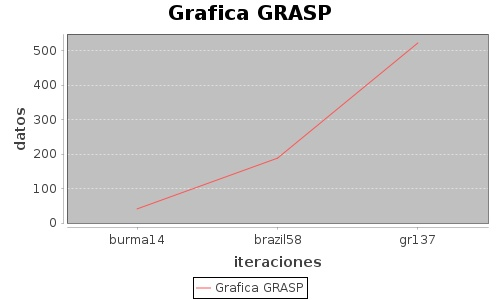
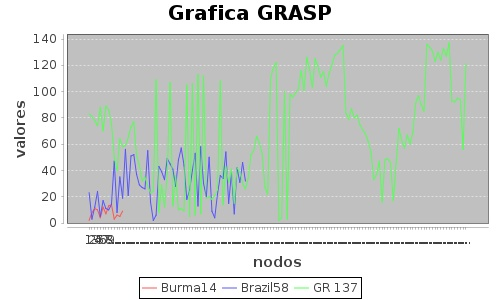
grafica de los recorridos

diff --git a/src/Main.java b/src/Main.java
@@ -9,6 +9,7 @@ import salida.ArchivoSalida;
 
 import java.io.File;
 import java.util.*;
+import java.util.List;
 
 import org.jfree.chart.ChartFactory;
 import org.jfree.chart.JFreeChart;
@@ -20,13 +21,13 @@ public class Main {
         //creo un grafo completo de 4 nodos de ejemplo, solo para probar la funcionalidad de los recorridos implementados
         GrafoMatriz otroGrafo = crearGrafoDeEjemplo();
         //1. Proponer un algoritmo goloso para el problema del viajante de comercio.
-        int [] camino = recorridoViajanteDeComercio(otroGrafo);
-        imprimirArreglo (camino);
+        int[] camino = recorridoViajanteDeComercio(otroGrafo);
+        imprimirArreglo(camino);
 
         //-------------------------------------------------------
         //2. Aleatorizar el algoritmo anterior.
         System.out.println("ahora aleatorio");
-       int []camino2 = recorridoViajanteDeComercioAleatorio(otroGrafo);
+        int[] camino2 = recorridoViajanteDeComercioAleatorio(otroGrafo);
         imprimirArreglo(camino2);
 
         //----------------------------------------------------------
@@ -45,7 +46,7 @@ public class Main {
         //"jugando" un poco con el xml para agarrarle la mano
         System.out.println("accediendo a los datos xml");
         XMLaccessing archivoDeEntrada = new XMLaccessing();
-        String [] resultado1 = archivoDeEntrada.adyacentesDe("1");
+        String[] resultado1 = archivoDeEntrada.adyacentesDe("1");
         String[] resultado2 = archivoDeEntrada.pesosDe("1");
         System.out.println("adyacentes del nodo '1'");
         imprimirArreglo(resultado1);
@@ -64,18 +65,19 @@ public class Main {
          */
         System.out.println("algoritmo GRASP");
         System.out.println("Archivo 'burma14'");
-        algoritmoGRASPconArchivoDeEntradaYDeSalida("burma14.xml","outputBurma.txt");
+        algoritmoGRASPconArchivoDeEntradaYDeSalida("burma14.xml", "outputBurma.txt");
         System.out.println("Archivo 'brazil158'");
-        algoritmoGRASPconArchivoDeEntradaYDeSalida("brazil58.xml","outputBrazil.txt");
+        algoritmoGRASPconArchivoDeEntradaYDeSalida("brazil58.xml", "outputBrazil.txt");
         System.out.println("Archivo 'gr137'");
-        algoritmoGRASPconArchivoDeEntradaYDeSalida("gr137.xml","outputGr137.txt");
+        algoritmoGRASPconArchivoDeEntradaYDeSalida("gr137.xml", "outputGr137.txt");
 
         //---------------------------------------------------------
         /*6. Presentar un grafico de scoring contra la cantidad de iteraciones para baterías de distintas instancias, que permita
         decidir una cantidad de iteraciones que ayude a encontrar un valor cercano al óptimo sin desperdiciar tiempo de
         cómputo.
         * */
-       // presentarElGrafico();
+       presentarElGrafico();
+
 
     }
 
@@ -87,14 +89,16 @@ public class Main {
         GrafoMatriz grafo2 = new GrafoMatriz(archivoDeEntrada2);
         GrafoMatriz grafo3 = new GrafoMatriz(archivoDeEntrada3);
 
-        DefaultCategoryDataset datos = new DefaultCategoryDataset();
-        float dato1 = recorrerElGrafo(grafo1,recorridoViajanteDeComercio(grafo1));
-        float dato2 = recorrerElGrafo(grafo2,recorridoViajanteDeComercio(grafo2));
-        float dato3 = recorrerElGrafo(grafo3,recorridoViajanteDeComercio(grafo3));
-        datos.addValue(dato1,"Grafica GRASP", "burma14");
-        datos.addValue(dato2,"Grafica GRASP", "brazil58");
-        datos.addValue(dato3,"Grafica GRASP", "gr137");
-        JFreeChart grafico = ChartFactory.createLineChart("Grafica GRASP","iteraciones","datos",datos);
+
+        DefaultCategoryDataset dataset = new DefaultCategoryDataset();
+
+        llenarConDatos(dataset,recorridoViajanteDeComercio(grafo1),"Burma14");
+
+       llenarConDatos(dataset,recorridoViajanteDeComercio(grafo2),"Brazil58");
+
+       llenarConDatos(dataset,recorridoViajanteDeComercio(grafo3),"GR 137");
+
+        JFreeChart grafico = ChartFactory.createLineChart("Grafica GRASP", "nodos", "valores", dataset);
         // Creación del panel con el gráfico
         ChartPanel panel = new ChartPanel(grafico);
 
@@ -111,20 +115,32 @@ public class Main {
 
     }
 
+    private static void llenarConDatos(DefaultCategoryDataset dataset, int[] recorrido, String nombre) {
+
+        for (int i=1;i<recorrido.length;i++){
+            dataset.setValue(recorrido[i],nombre,String.valueOf(i));
+        }
+
+    }
+
+
     private static void imprimirArreglo(int[] arreglo) {
         System.out.println("se tiene el siguiente arreglo");
-        for (int posicion :arreglo){
-            System.out.print(" "+ posicion + ";");
+        for (int posicion : arreglo) {
+            System.out.print(" " + posicion + ";");
         }
         System.out.println(" ");
     }
-    private static void imprimirArreglo(String [] arreglo) {
+
+    private static void imprimirArreglo(String[] arreglo) {
         System.out.println("se tiene el siguiente arreglo");
-        for (String palabra : arreglo){
-            System.out.print( palabra + ";");
+        for (String palabra : arreglo) {
+            System.out.print(palabra + ";");
         }
         System.out.println(" ");
     }
+
+
 
     public static int[] recorridoViajanteDeComercio(GrafoMatriz grafo) {
         int nodoActual = 0;//O (1)
@@ -281,7 +297,7 @@ public static int[] busquedaLocal2 ( GrafoMatriz grafo) {
             elMejorHastaAhora = hayOtroMejor;
             miSalida.escribirEnElArchivo("Con busqueda local se presento esta nueva solucion: "+ Arrays.toString(elMejorHastaAhora.camino));
             miSalida.escribirEnElArchivo("y el costo de recorrer es: " + elMejorHastaAhora.costo);
-            otroCamino = busquedaLocal2(miGrafo);
+            //otroCamino = busquedaLocal2(miGrafo);
             //hayOtroMejor = new Circuito(otroCamino,recorrerElGrafo(miGrafo,otroCamino));
         }
         miSalida.cerrarArchivo();

diff --git a/src/estructuras/GrafoMatriz.java b/src/estructuras/GrafoMatriz.java
@@ -4,7 +4,7 @@ import entrada.XMLaccessing;
 
 public class GrafoMatriz {
     float[][] adyacentes;
-    private final int infinito = 9999999;//un valor muy alto
+
     public GrafoMatriz(int dimension) {
         this.adyacentes=new float[dimension][dimension];
         this.ponerValorAltoAristaCiclica();
@@ -30,7 +30,9 @@ public class GrafoMatriz {
 
     private void ponerValorAltoAristaCiclica() {
          for (int i= 0; i<this.adyacentes.length;i++){
-             this.adyacentes[i][i]= this.infinito;
+             //un valor muy alto
+             int infinito = 9999999;
+             this.adyacentes[i][i]= infinito;
          }
     }
 
@@ -63,4 +65,5 @@ public class GrafoMatriz {
 
         return resultado;
     }
+
 }
